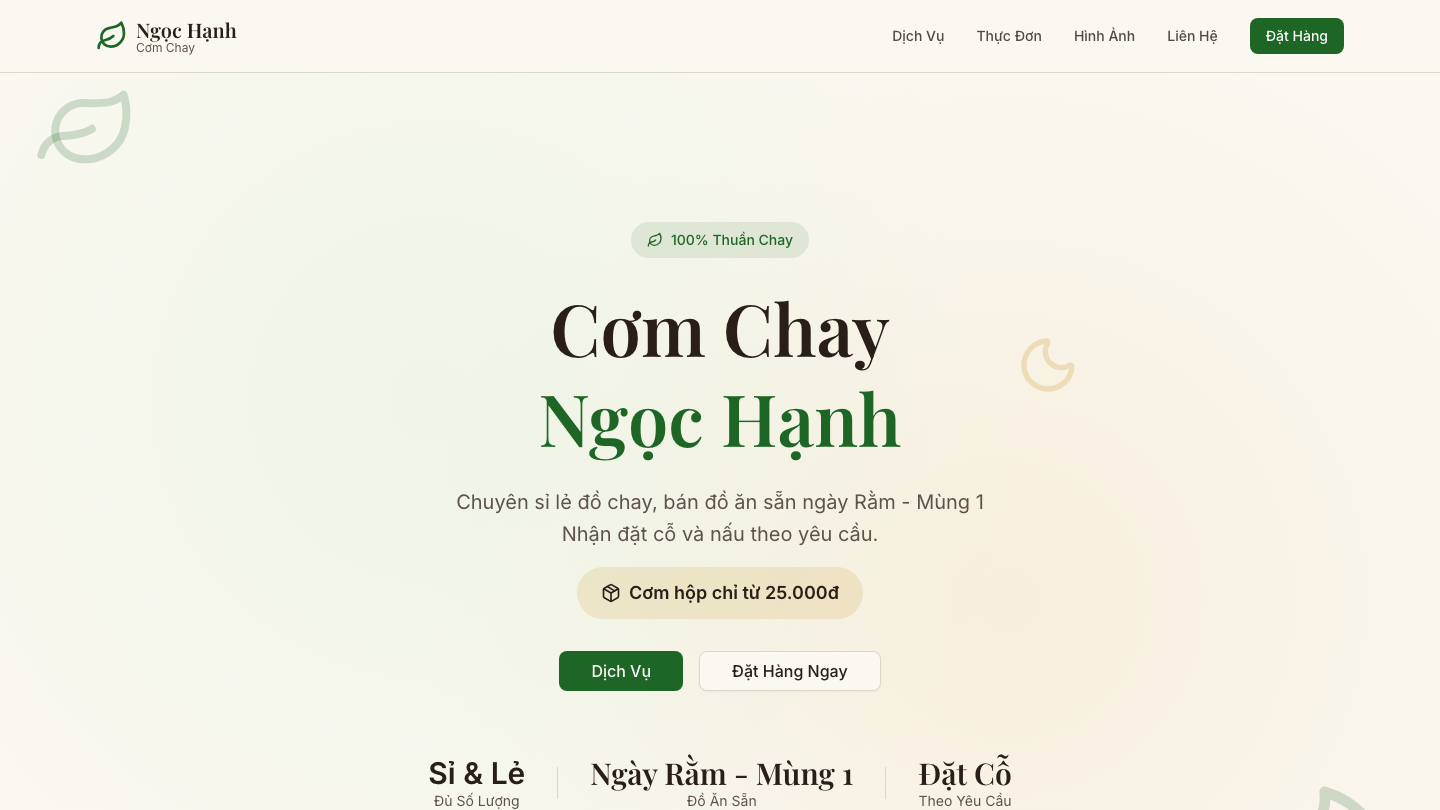
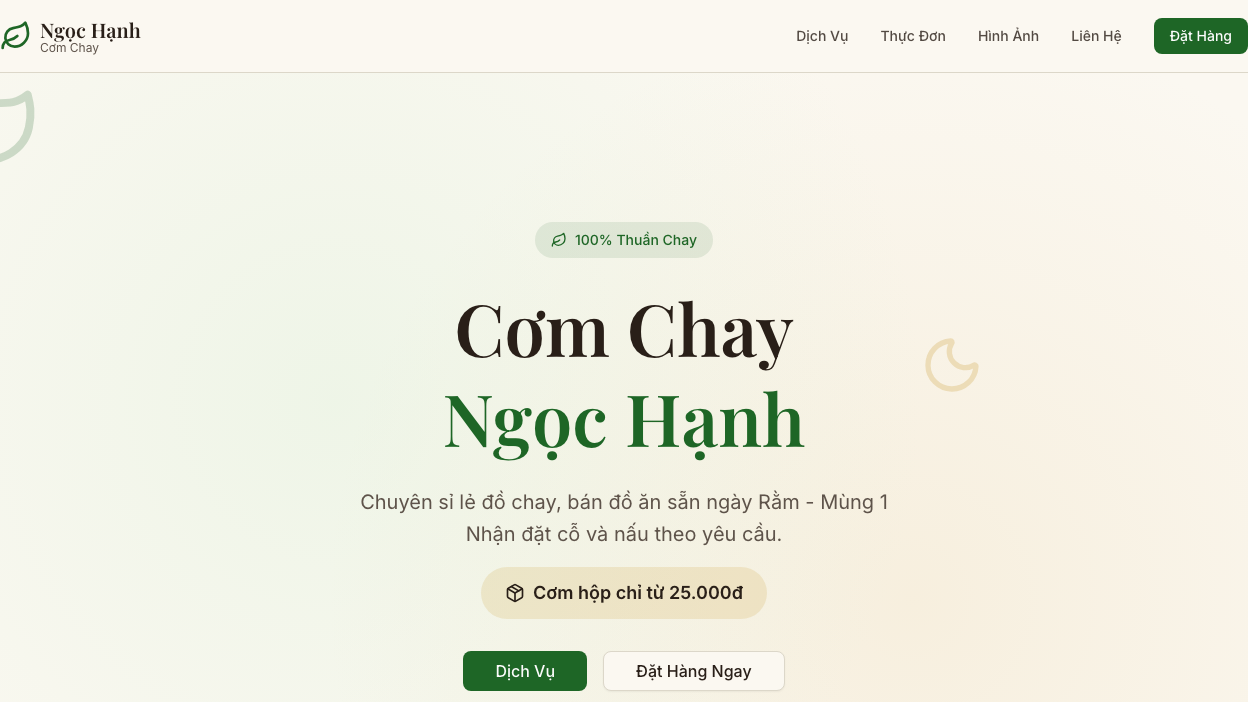
Tighten featured project previews

diff --git a/src/components/ProjectCard.tsx b/src/components/ProjectCard.tsx
@@ -21,16 +21,43 @@ function BrowserMockup({ project, featured }: BrowserMockupProps) {
           : "border-slate-200 shadow-sm",
       ].join(" ")}
     >
-      <div className="flex h-9 items-center gap-2 border-b border-slate-200 bg-slate-50 px-3">
-        <span className="h-2.5 w-2.5 rounded-full bg-[#ef6f6c]" />
-        <span className="h-2.5 w-2.5 rounded-full bg-[#f4c95d]" />
-        <span className="h-2.5 w-2.5 rounded-full bg-[#5bc48f]" />
-        <span className="ml-2 h-3 flex-1 rounded-sm bg-slate-200/80" />
+      <div
+        className={[
+          "flex items-center border-b border-slate-200 bg-slate-50",
+          featured ? "h-6 gap-1.5 px-2" : "h-9 gap-2 px-3",
+        ].join(" ")}
+      >
+        <span
+          className={[
+            "rounded-full bg-[#ef6f6c]",
+            featured ? "h-1.5 w-1.5 opacity-80" : "h-2.5 w-2.5",
+          ].join(" ")}
+        />
+        <span
+          className={[
+            "rounded-full bg-[#f4c95d]",
+            featured ? "h-1.5 w-1.5 opacity-80" : "h-2.5 w-2.5",
+          ].join(" ")}
+        />
+        <span
+          className={[
+            "rounded-full bg-[#5bc48f]",
+            featured ? "h-1.5 w-1.5 opacity-80" : "h-2.5 w-2.5",
+          ].join(" ")}
+        />
+        <span
+          className={[
+            "ml-2 flex-1 rounded-sm bg-slate-200/80",
+            featured ? "h-2 opacity-70" : "h-3",
+          ].join(" ")}
+        />
       </div>
       <div
         className={[
           "project-preview",
-          featured ? "project-preview--featured" : "project-preview--app",
+          featured
+            ? `featured-preview project-preview--featured project-preview--${project.id}`
+            : "project-preview--app",
         ].join(" ")}
       >
         <img

diff --git a/src/index.css b/src/index.css
@@ -110,7 +110,7 @@ body {
 .project-preview {
   aspect-ratio: 16 / 9;
   width: 100%;
-  background: #f4f6f8;
+  background: #f3f5f7;
   display: flex;
   align-items: flex-start;
   justify-content: center;
@@ -123,12 +123,26 @@ body {
   object-position: top center;
 }
 
+.featured-preview,
 .project-preview--featured {
   background: #f8fafc;
+  overflow: hidden;
 }
 
 .project-preview--featured img {
   object-fit: cover;
+}
+
+.project-preview--tracy-counselling img {
+  object-position: center 18%;
+}
+
+.project-preview--swim-with-leah img {
+  object-position: center 12%;
+}
+
+.project-preview--vegan-restaurant img {
+  object-position: center 15%;
 }
 
 .project-preview--app img {

diff --git a/src/data/projects.ts b/src/data/projects.ts
@@ -53,7 +53,7 @@ export const featuredProjects: Project[] = [
     responsive:
       "Responsive cards, navigation, content pages, and form layouts for desktop, tablet, and mobile screens.",
     screenshot: "/images/tracy-counselling-card.png",
-    screenshotPosition: "top center",
+    screenshotPosition: "center 18%",
     liveUrl: "https://www.nguyentracy.com/",
   },
   {
@@ -88,7 +88,7 @@ export const featuredProjects: Project[] = [
     responsive:
       "Designed with responsive section spacing, mobile navigation, and flexible service cards across viewport sizes.",
     screenshot: "/images/swim-with-leah-card.png",
-    screenshotPosition: "top center",
+    screenshotPosition: "center 12%",
     liveUrl: "https://www.swimwithleah.com/",
   },
   {
@@ -122,7 +122,7 @@ export const featuredProjects: Project[] = [
     responsive:
       "Responsive navigation, stacked content sections, menu cards, and contact actions for mobile ordering.",
     screenshot: "/images/vegan-restaurant-card.png",
-    screenshotPosition: "top center",
+    screenshotPosition: "center 15%",
     liveUrl: "https://v0-comchayngochanh.vercel.app/",
   },
 ];